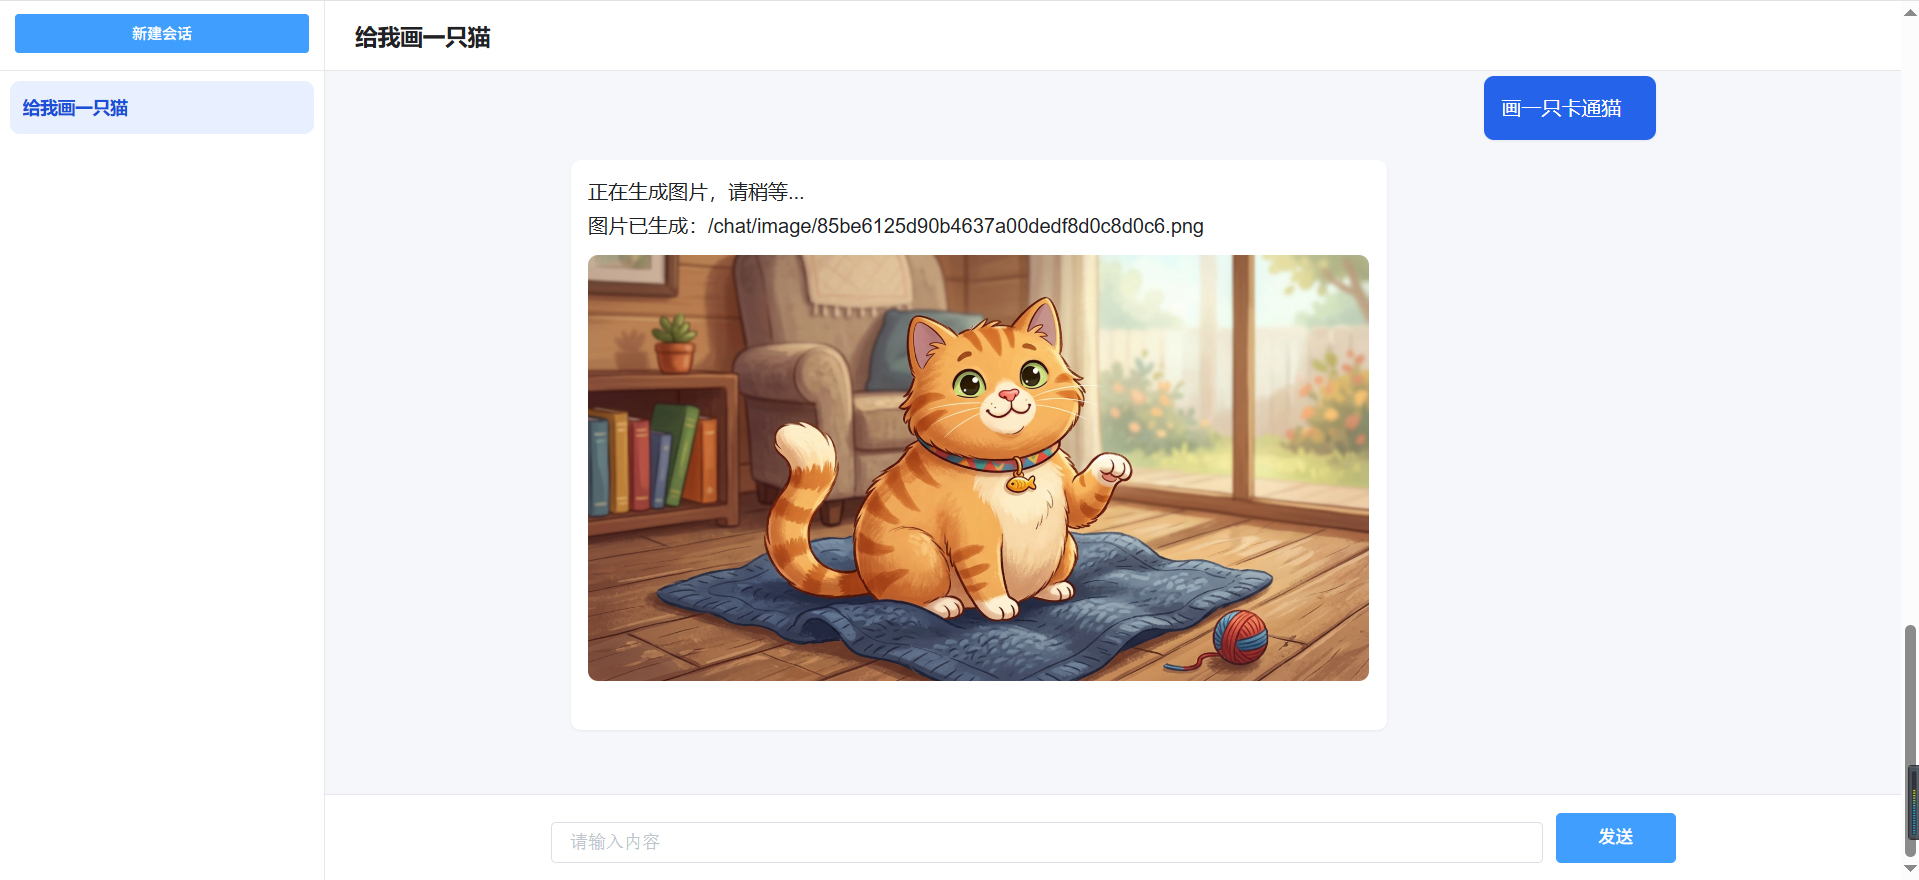
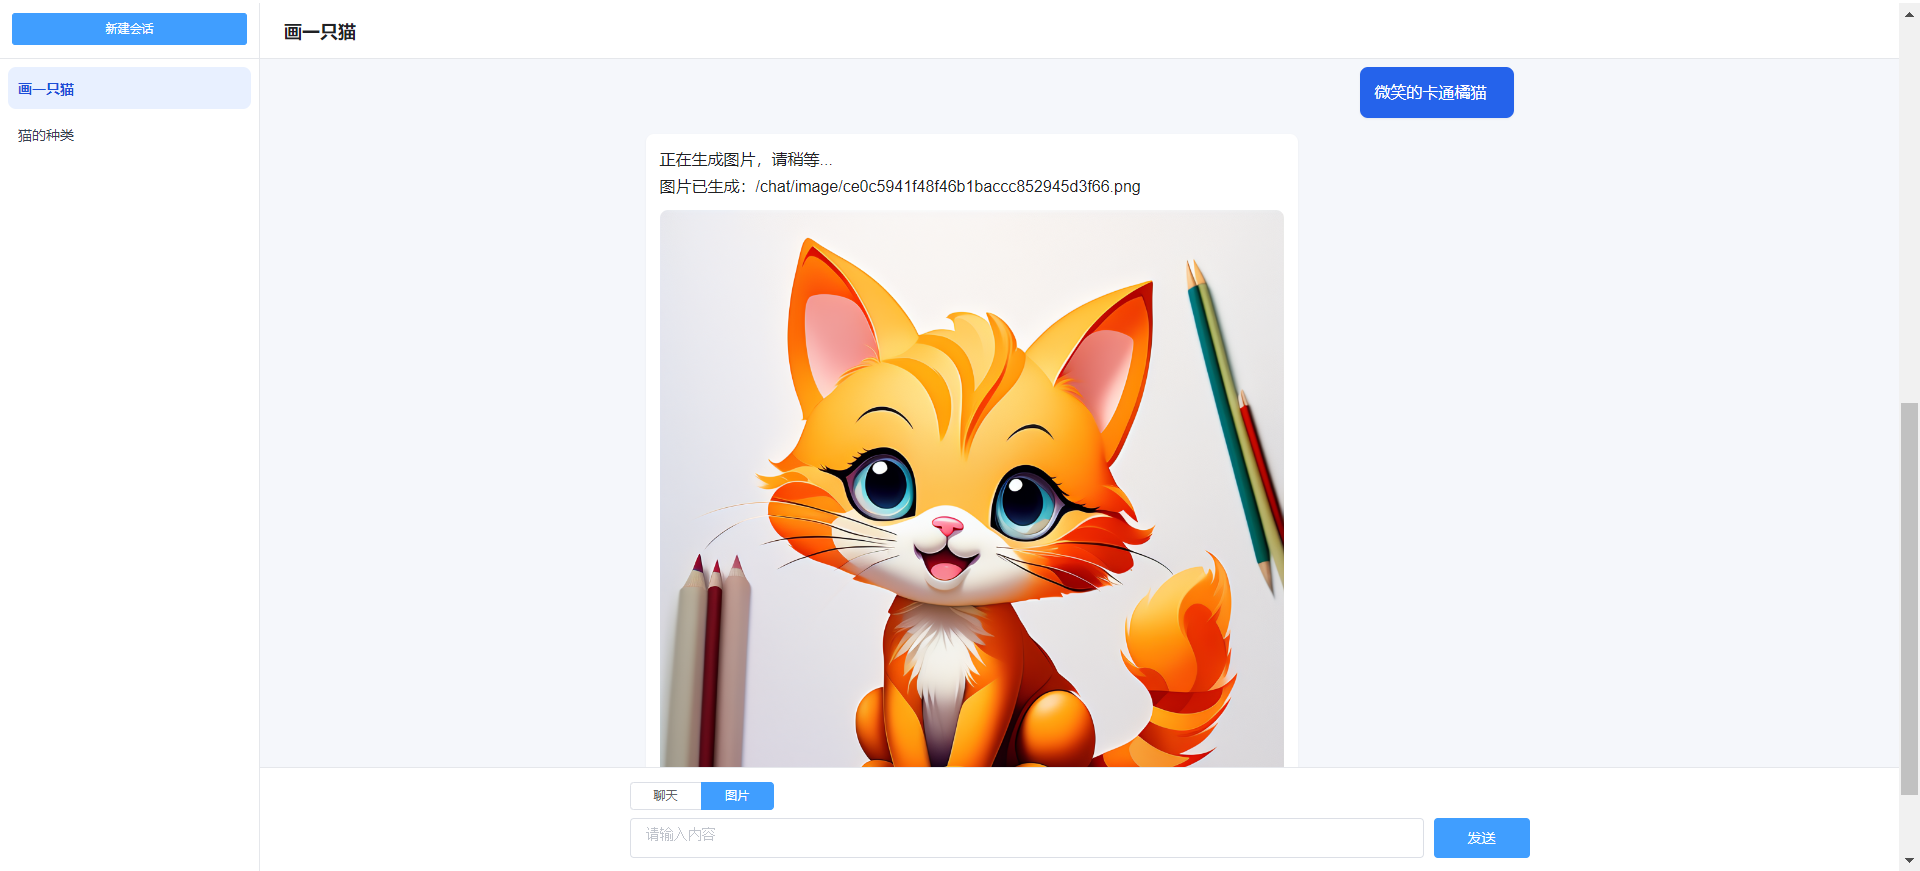
修改readme

diff --git a/README.md b/README.md
@@ -3,17 +3,18 @@
 一个 Spring Boot + OpenAI Java SDK 的流式聊天 Demo，核心是用 `SseEmitter` 把模型回复实时推送到网页，并用会话 ID 串起前端历史和后端上下文。
 
 ## 页面效果
-![页面效果](docs/page.png)
+![页面效果](docs/page1.png)
 ![页面效果](docs/page2.png)
 
-## 会话流转逻辑
+## 会话与模型分流原理
 
-![会话流转逻辑图](docs/session-flow.png)
+![会话与模型分流原理图](docs/session-flow.png)
 
 ## 一句话看懂
 
 - 前端左侧历史：保存在 `sessionStorage`，刷新还在，关闭标签页后清空。
-- 后端上下文：保存在 `sessionHistoryMap`，同一 `sessionId` 下模型能读懂最近 10 轮上下文。
+- 服务端上下文：聊天保存在 `sessionHistoryMap`（最近 10 轮），图片保存在 `sessionImageHistoryMap`（最近 5 轮提示词），两套上下文互相独立。
+- 模式分流：输入区明确选择“聊天”或“图片”，后端按 `mode` 调用 `ChatService` 或 `ImageService`。
 - 流式输出：浏览器用 `EventSource` 连接后端，后端用 `SseEmitter` 一段段推送模型回复。
 - 为什么先 POST 再 GET：`EventSource` 只能发 GET，所以先 `POST /sendMsg` 暂存消息，再 `GET /conversation/{msgId}` 建立 SSE。
 